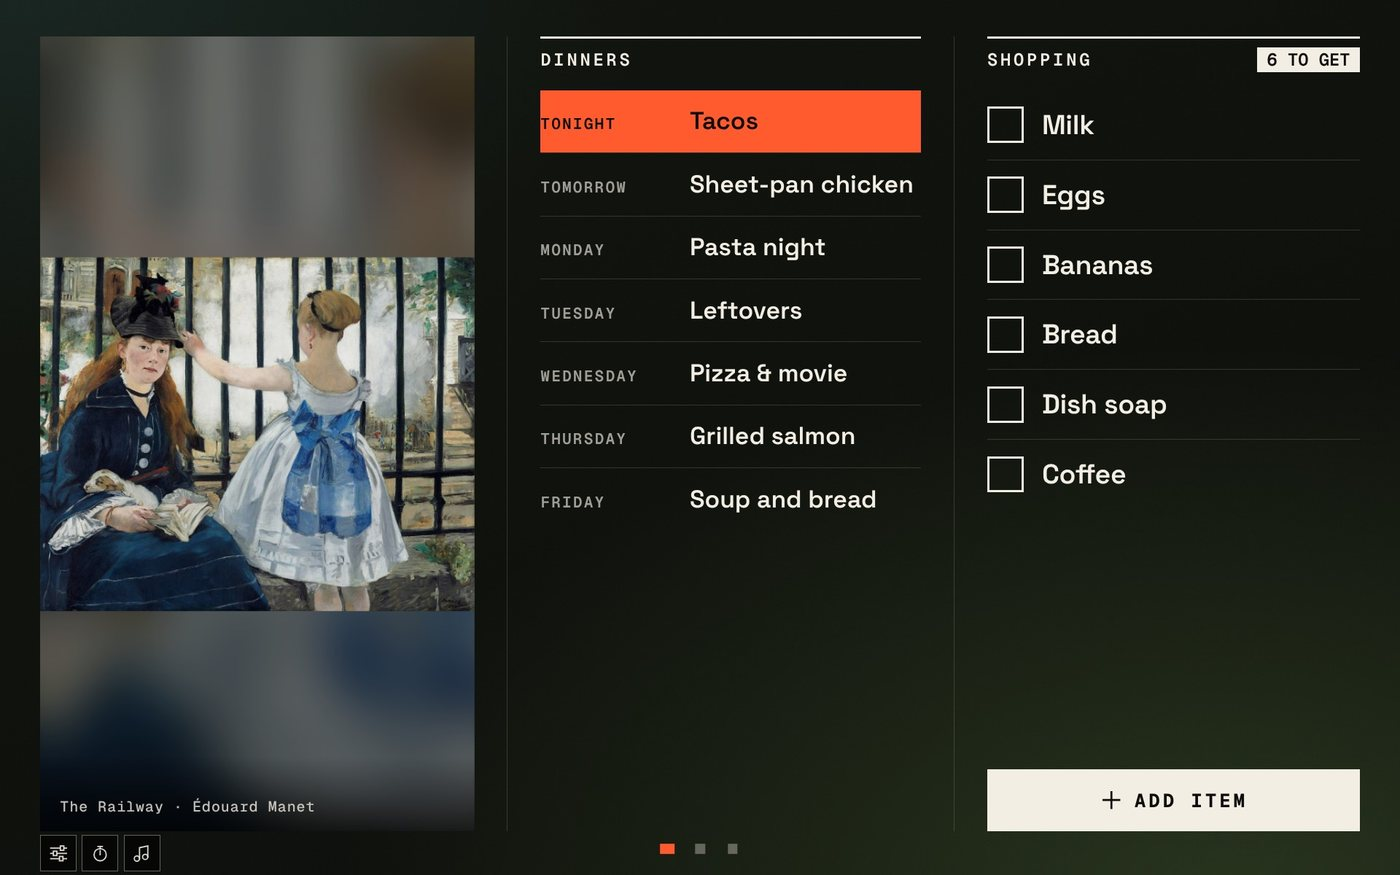
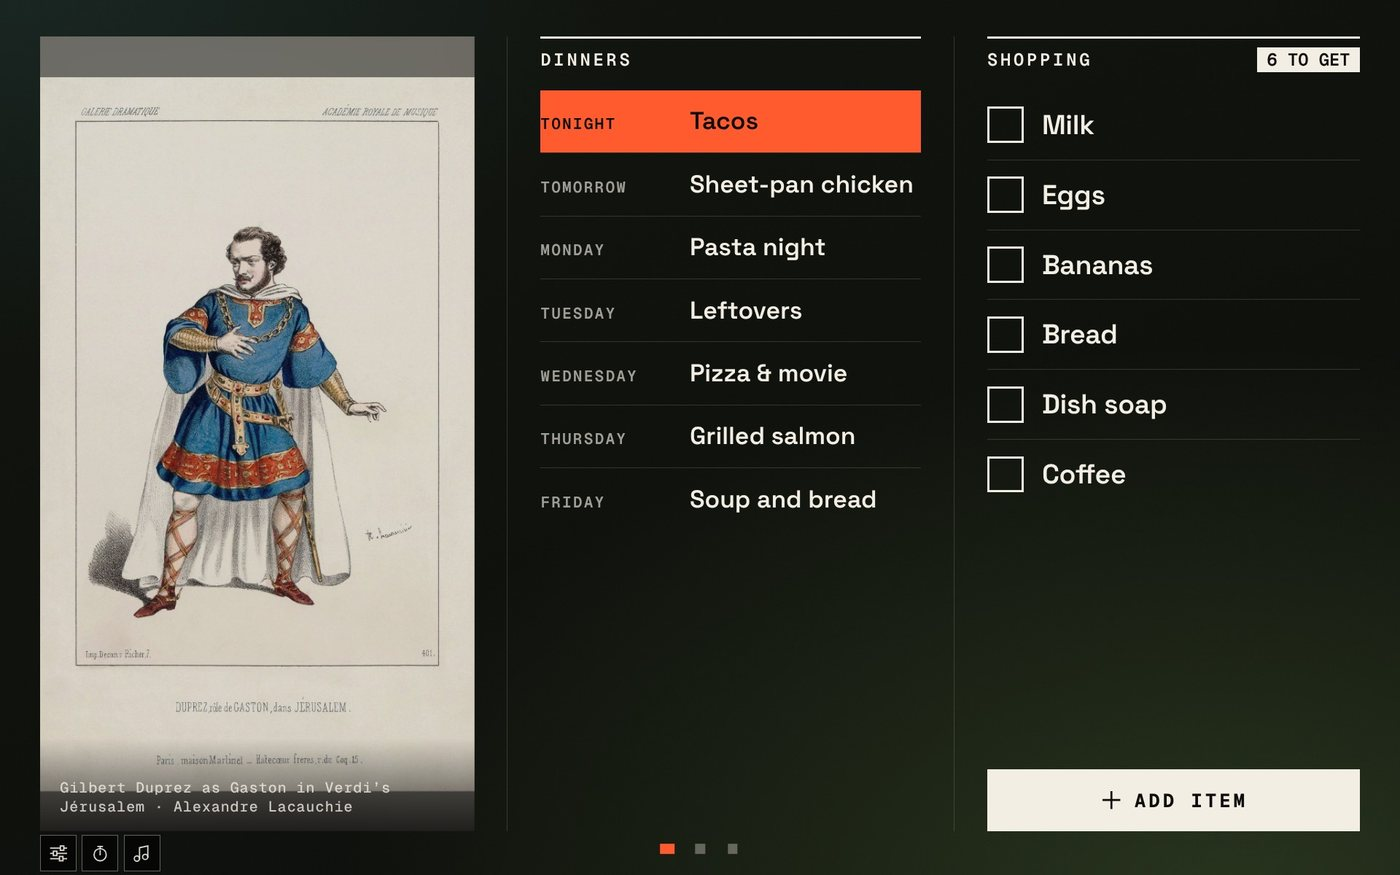
Gallery screenshot: tall opera print fills the panel
Claude-Session: https://claude.ai/code/session_011eTQv9VeC2pydGDdcW3LLL

Changed region(s): [[0.0307, 0.0309, 0.3379, 0.9566]]

diff --git a/site/index.html b/site/index.html
@@ -136,7 +136,7 @@
       </ul>
     </div>
     <div class="wrap shots two">
-      <figure><img src="img/s/plus.jpg" width="1400" height="875" loading="lazy" alt="A painting by Manet in the art gallery, next to the week's dinners and a shopping list."><figcaption>Art gallery, dinners and shopping list</figcaption></figure>
+      <figure><img src="img/s/plus.jpg" width="1400" height="875" loading="lazy" alt="A 19th-century hand-colored print of an opera singer in costume, in the art gallery next to the week's dinners and a shopping list."><figcaption>Art gallery, dinners and shopping list</figcaption></figure>
       <figure><img src="img/s/settings-widgets.jpg" width="1400" height="875" loading="lazy" alt="The layout settings, with each widget switched on or off and moved up or down."><figcaption>Choose and arrange your widgets</figcaption></figure>
     </div>
   </section>
